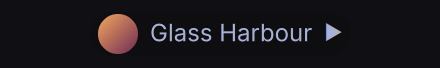
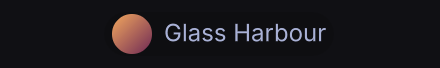
Bar off hover: drop the small play mark after the title

Changed region(s): [[0.2068, 0.2059, 0.7977, 0.7941]]

diff --git a/BarWidget.qml b/BarWidget.qml
@@ -347,17 +347,6 @@ BarWidget {
       font.pixelSize: Style.font.body
     }
 
-    // Asleep song, pointer on it: a small play mark after the title.
-    Text {
-      visible: root.awake && root.showTitle
-      anchors.verticalCenter: parent.verticalCenter
-      text: "▶"
-      textFormat: Text.PlainText
-      color: root.fg
-      font.family: root.family
-      font.pixelSize: Math.round(Style.font.body * 0.8)
-    }
-
     Row {
       visible: root.showControls
       anchors.verticalCenter: parent.verticalCenter
